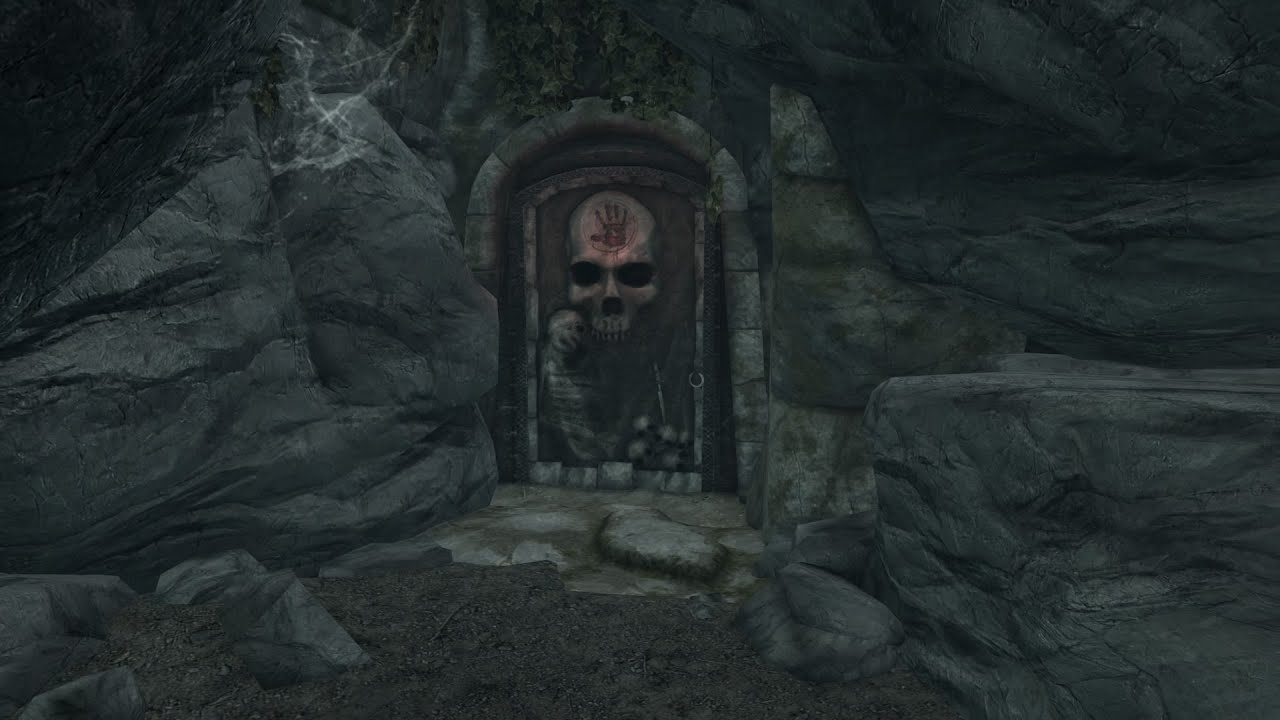
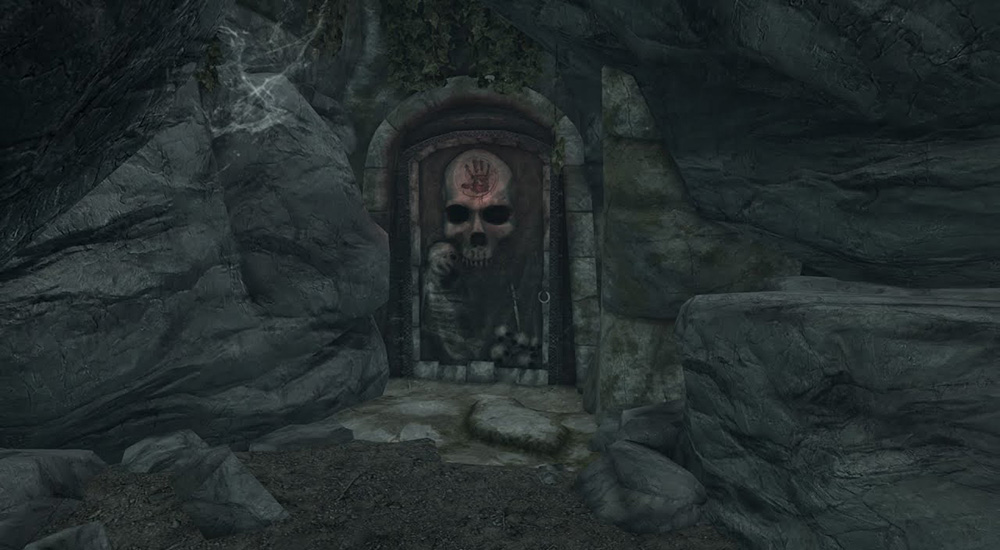
reworked img dimensions, added overval hidings

diff --git a/css/style.css b/css/style.css
@@ -109,10 +109,11 @@ body {
   left: 25px;
   width: 1000px;
   height: 550px;
+  box-sizing: content-box;
 }
 
 #tekst_container {
-  bottom: 20px;
+  bottom: 14px;
   left: 25px;
   width: 1150px;
   height: 200px;
@@ -195,29 +196,29 @@ svg:hover {
 }
 
 #ingredient_1 {
-  top: 319px;
-  left: 96px;
+  top: 289px;
+  left: 61px;
   width: 100px;
   height: 122px;
 }
 
 #ingredient_2 {
   top: 271px;
-  right: 76px;
+  right: 43px;
   width: 100px;
   height: 100px;
 }
 
 #ingredient_3 {
-  top: 295px;
-  left: 646px;
+  top: 273px;
+  left: 665px;
   width: 73px;
   height: 86px;
 }
 
 #ingredient_4 {
   top: 330px;
-  left: 431px;
+  left: 419px;
   width: 90px;
   height: 100px;
 }
@@ -253,24 +254,24 @@ svg:hover {
   background-image: url(../img/grijze_bekerplant.png);
 }
 
-.ingredient_animated {
+.ingredient_animated_to_inventory {
   animation: toInventory 0.5s linear forwards;
 }
 
 @keyframes toInventory {
   0% {
     display: block;
-    transform: translateY(0%)scale(1);
+    transform: translateX(0%)scale(1);
   }
 
   99% {
     display: block;
-    transform: translateY(50%) scale(0.2);
+    transform: translateX(50%) scale(0.2);
   }
 
   100% {
     display: none;
-    transform: translateY(50%) scale(0);
+    transform: translateX(50%) scale(0);
   }
 }
 
@@ -280,9 +281,30 @@ svg:hover {
   background-image: url(../img/alchemy_lab.jpg);
 }
 
+.ingredient_animated_to_potion {
+  animation: toPotion 0.5s linear forwards;
+}
+
+@keyframes toPotion {
+  0% {
+    display: block;
+    transform: translateY(0%)scale(1);
+  }
+
+  99% {
+    display: block;
+    transform: translateY(-50%) scale(1.5);
+  }
+
+  100% {
+    display: none;
+    transform: translateY(-50%) scale(0);
+  }
+}
+
 #potion {
-  top: 315px;
-  left: 316px;
+  top: 281px;
+  left: 258px;
   width: 50px;
   height: 50px;
   background-image: url(../img/alchemy_potion.png);
@@ -316,11 +338,51 @@ svg:hover {
   cursor: url(../img/magische_staf_cursor.png), auto;
 }
 
+#steen_links {
+  width: 225px;
+  height: 375px;
+  background-image: url(../img/overval_steen_links.png);
+  top: 175px;
+  left: 1px;
+}
+
+#steen_rechts {
+  width: 173px;
+  height: 352px;
+  background-image: url(../img/overval_steen_rechts.png);
+  top: 121px;
+  right: -2px;
+}
+
+#ruine_links {
+  width: 198px;
+  height: 116px;
+  background-image: url(../img/overval_ruine_links.png);
+  top: 242px;
+  left: 212px;
+}
+
+#ruine_midden {
+  width: 106px;
+  height: 164px;
+  background-image: url(../img/overval_ruine_midden.png);
+  top: 212px;
+  left: 429px;
+}
+
+#ruine_rechts {
+  width: 110px;
+  height: 94px;
+  background-image: url(../img/overval_ruine_rechts.png);
+  top: 256px;
+  right: 265px;
+}
+
 .vijand {
   display: block;
   width: 100%;
   height: 100%;
-  opacity: 0;
+  opacity: 1;
 }
 
 #falmer {

diff --git a/pages/level_1.html b/pages/level_1.html
@@ -108,7 +108,7 @@
         function ingredientGevonden(evt) {
             var gepluktePlant = evt.currentTarget.getAttribute("id");
             if (gepluktePlant == "ingredient_1") {
-                deWittePaddestoel.classList.add("ingredient_animated");
+                deWittePaddestoel.classList.add("ingredient_animated_to_inventory");
                 inventarisPlaatsen[0].classList.add("witte_paddestoel");
                 gevondenPlanten++;
                 gezichtContainer.classList.remove("gezicht_uil")
@@ -117,7 +117,7 @@
 
             } else if (gepluktePlant == "ingredient_2") {
 
-                deVaren.classList.add("ingredient_animated");
+                deVaren.classList.add("ingredient_animated_to_inventory");
                 inventarisPlaatsen[1].classList.add("varen");
                 gevondenPlanten++;
                 gezichtContainer.classList.remove("gezicht_uil")
@@ -125,7 +125,7 @@
                 dialoog.innerHTML = "Dit lijkt de juiste Varen te zijn.";
 
             } else if (gepluktePlant == "ingredient_3") {
-                deOranjeBeker.classList.add("ingredient_animated");
+                deOranjeBeker.classList.add("ingredient_animated_to_inventory");
                 inventarisPlaatsen[2].classList.add("oranje_bekerplant");
                 gevondenPlanten++;
                 gezichtContainer.classList.remove("gezicht_uil")
@@ -133,7 +133,7 @@
                 dialoog.innerHTML = "Een Oranje Bekerplant.<br> Super!";
 
             } else if (gepluktePlant == "ingredient_4") {
-                deAnemoon.classList.add("ingredient_animated");
+                deAnemoon.classList.add("ingredient_animated_to_inventory");
                 inventarisPlaatsen[3].classList.add("anemoon_plant");
                 gevondenPlanten++;
                 gezichtContainer.classList.remove("gezicht_uil")
@@ -141,7 +141,7 @@
                 dialoog.innerHTML = "Deze Anemoonplant neem ik alvast mee.";
 
             } else if (gepluktePlant == "ingredient_5") {
-                deGrijzeBeker.classList.add("ingredient_animated");
+                deGrijzeBeker.classList.add("ingredient_animated_to_inventory");
                 inventarisPlaatsen[4].classList.add("grijze_bekerplant");
                 gevondenPlanten++;
                 gezichtContainer.classList.remove("gezicht_uil")

diff --git a/pages/level_3.html b/pages/level_3.html
@@ -12,7 +12,7 @@
 </head>
 
 <body>
-      <main>
+    <main>
         <div id="container" class="relative center_margin">
             <div id="inventaris_container" class="absolute flex border background_black">
                 <div id="magische_staf" class="background_contain"></div>
@@ -24,11 +24,16 @@
                     <div id="falmer_container" class="absolute">
                         <div id="falmer" class="vijand absolute background_contain"></div>
                     </div>
-                    <div id="skelet_container" class="absolute">
-                        <div id="skelet" class="vijand absolute background_contain"></div>
-                    </div>
+
                     <div id="goblin_container" class="absolute">
                         <div id="goblin" class="vijand absolute background_contain"></div>
+                    </div>
+                    <div id="ruine_links" class="absolute background_contain"></div>
+                    <div id="ruine_midden" class="absolute background_contain"></div>
+                    <div id="ruine_rechts" class="absolute background_contain"></div>
+
+                    <div id="skelet_container" class="absolute">
+                        <div id="skelet" class="vijand absolute background_contain"></div>
                     </div>
                     <div id="hagraven_container" class="absolute">
                         <div id="hagraven" class="vijand absolute background_contain"></div>
@@ -36,6 +41,9 @@
                     <div id="zwijn_container" class="absolute">
                         <div id="zwijn" class="vijand absolute background_contain"></div>
                     </div>
+                    <div id="steen_links" class="absolute background_contain"></div>
+                    <div id="steen_rechts" class="absolute background_contain"></div>
+
                 </div>
             </div>
 
@@ -60,7 +68,7 @@
             </div>
         </div>
     </main>
-    <footer class = "background_black">
+    <footer class="background_black">
         <h6>Copyright &copy; Victor Loots,2023</h6>
         <h6>Webanimatie2 @ Encora</h6>
     </footer>

diff --git a/pages/level_2.html b/pages/level_2.html
@@ -57,7 +57,7 @@
         </div>
     </main>
 
-    <footer class = "background_black">
+    <footer class="background_black">
         <h6>Copyright &copy; Victor Loots,2023</h6>
         <h6>Webanimatie2 @ Encora</h6>
     </footer>
@@ -90,21 +90,22 @@
             gezichtContainer.classList.add("gezicht_uil");
             if (huidigeHelp == 0) {
                 dialoog.innerHTML = ("Skarin: <br> 'Hey Nagl, lukt het niet? <br> De juiste volgorde is: de Varen, de Paddestoel, de Grijze Beker, de Oranje Beker, de Anemoon'");
-            }else if(huidigeHelp == 1){
+            } else if (huidigeHelp == 1) {
                 dialoog.innerHTML = ("Skarin: <br> 'Hey Nagl, lukt het niet? <br> Druk op het drankje om het weg te gooien en opnieuw te beginnen.'");
-            }else if(huidigeHelp == 2){
+            } else if (huidigeHelp == 2) {
                 dialoog.innerHTML = ("Skarin: <br> 'Hey Nagl, lukt het niet? <br> Druk op het pijltje om Ancano te gaan zoeken.'");
             }
-            
+
         }
         gezichtContainer.classList.add("gezicht_nagl");
         dialoog.innerHTML = "Nagl: <br> 'Nu even goed opletten. <br>Als ik het goed heb gelezen dan is de juiste volgorde: <br>Varen, Witte Paddestoel, Grijze Beker, Oranje Beker & Anemoon.";
-        for (var i = 0; i < inventaris.length; i++) {
-            inventaris[i].addEventListener("click", kiesIngredient);
-        }
+
         potion.addEventListener("click", beginOpnieuw);
         function beginOpnieuw(evt) {
             location.reload();
+        }
+        for (var i = 0; i < inventaris.length; i++) {
+            inventaris[i].addEventListener("click", kiesIngredient);
         }
         function kiesIngredient(evt) {
             var gekozenIngredient = evt.currentTarget.getAttribute("data-plant");
